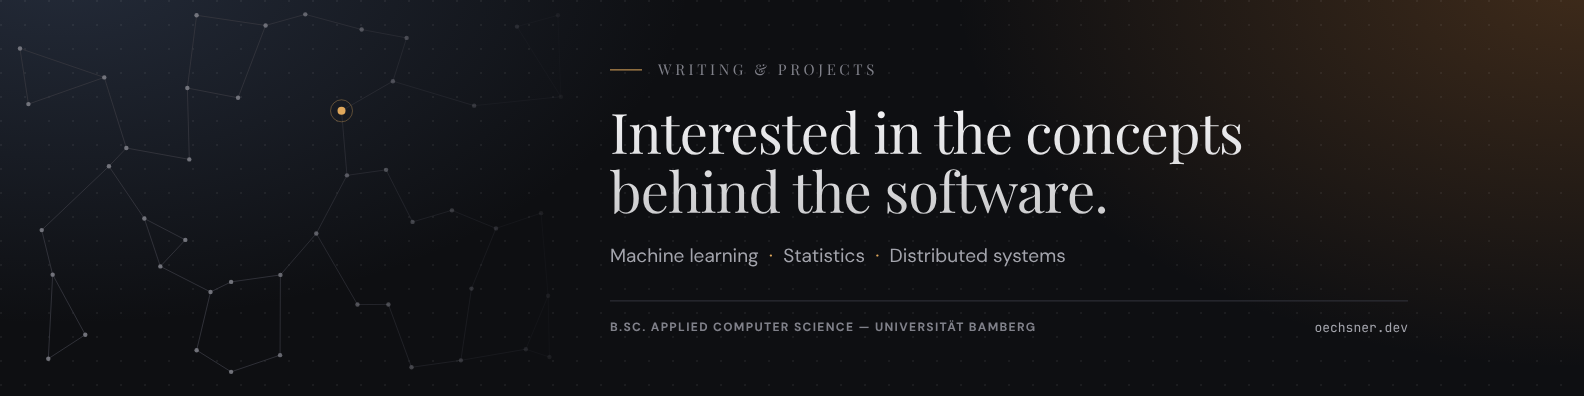
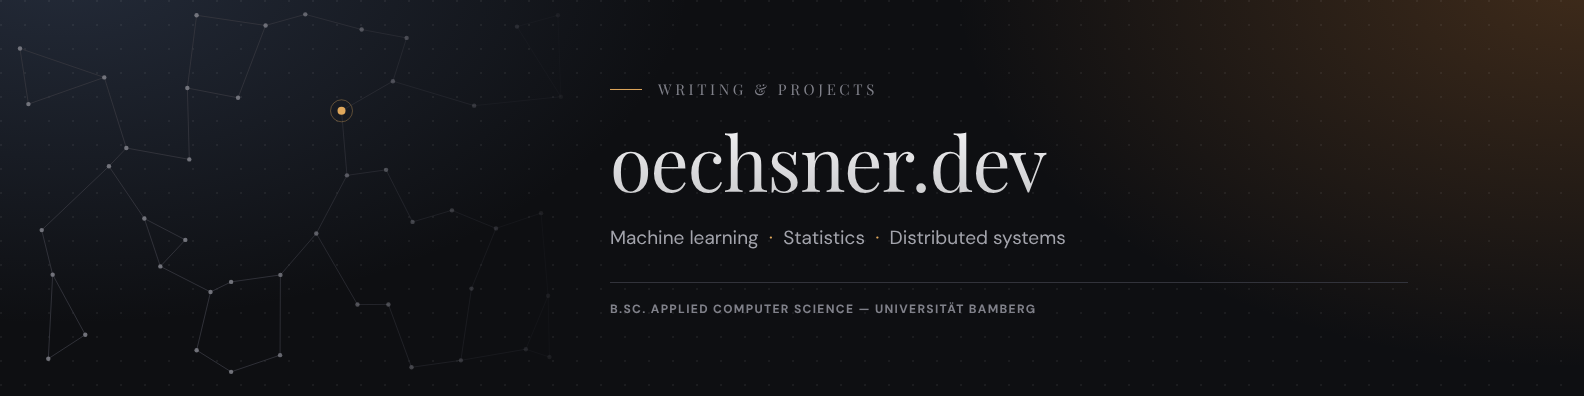
LinkedIn cover: make oechsner.dev the headline
Drops the now-duplicate oechsner.dev from the meta row.

Claude-Session: https://claude.ai/code/session_011FbGrfZaP8dLMqHVLiRfnS

diff --git a/docs/linkedin-cover/banner.html b/docs/linkedin-cover/banner.html
@@ -15,22 +15,21 @@ svg.net{position:absolute;left:0;top:0}
 .copy{position:absolute;left:610px;right:176px;top:50%;transform:translateY(-50%)}
 .rail{font-family:'Playfair Display',serif;font-size:15px;letter-spacing:.24em;text-transform:uppercase;color:var(--text-muted);display:flex;align-items:center;gap:16px}
 .rail i{display:block;width:32px;height:1px;background:var(--accent)}
-h1{margin-top:22px;font-family:'Playfair Display',serif;font-weight:400;font-size:56px;line-height:1.06;letter-spacing:-.015em;
+h1{margin-top:22px;font-family:'Playfair Display',serif;font-weight:400;font-size:76px;line-height:1.06;letter-spacing:-.015em;
  background:linear-gradient(180deg,var(--text),rgba(244,244,246,.82));-webkit-background-clip:text;background-clip:text;color:transparent}
 .sub{margin-top:22px;font-family:'DM Sans',sans-serif;font-size:19px;line-height:1.5;color:var(--text-secondary)}
 .sub b{color:var(--accent);font-weight:400;padding:0 .55em}
 .meta{margin-top:30px;padding-top:18px;border-top:1px solid var(--line-strong);display:flex;justify-content:space-between;
  font-family:'DM Sans',sans-serif;font-size:12px;font-weight:700;letter-spacing:.11em;text-transform:uppercase;color:var(--text-muted)}
-.meta span:last-child{font-family:'JetBrains Mono',monospace;font-weight:400;letter-spacing:0;text-transform:none;font-size:13px;color:var(--text-secondary)}
 </style></head><body>
 <div class="c">
  <div class="dots"></div>
  <svg class="net" width="1584" height="396" id="net"></svg>
  <div class="copy">
   <div class="rail"><i></i>Writing &amp; projects</div>
-  <h1>Interested in the concepts<br>behind the software.</h1>
+  <h1>oechsner.dev</h1>
   <p class="sub">Machine learning<b>·</b>Statistics<b>·</b>Distributed systems</p>
-  <div class="meta"><span>B.Sc. Applied Computer Science — Universität Bamberg</span><span>oechsner.dev</span></div>
+  <div class="meta"><span>B.Sc. Applied Computer Science — Universität Bamberg</span></div>
  </div>
 </div>
 <script>
